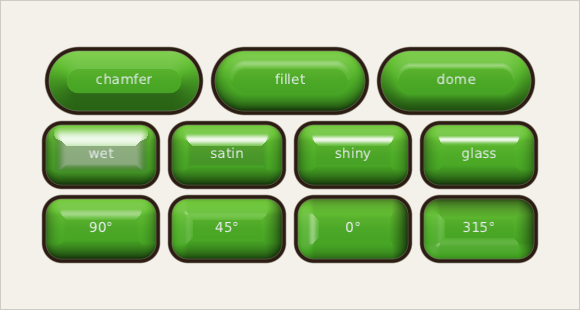
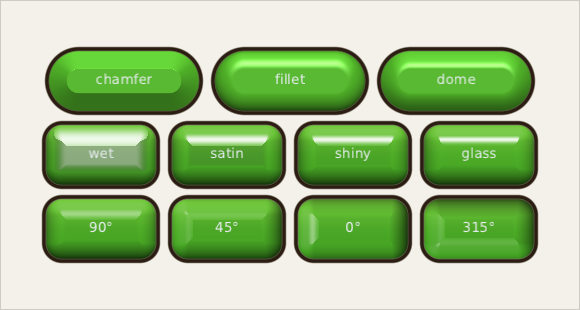
feat(ui): a lit surface can light its own colour, not just lie over one
The owner kept saying it did not look like the sheet, and measuring
one button against theirs said why: a light laid over somebody else's
fill can only add white, and white takes the colour out of a highlight.
Their bright band is the same green made brighter. Mine was green with
white on it, which is the thing that makes a drawn button look plastic.

relief now takes the face colour and lights that instead. A lit face
climbs fast and carries a little white with it, the way a bright
surface washes towards the colour of the light; a shaded one falls away
more gently and keeps its hue. Both together are what painted art does,
and a single multiply in either direction is what it does not.

Also worth writing down: the whole-sheet average was a misleading
target. It rewarded a flat mid-colour, because the bright band is a
tenth of a button's area, so tuning against it produced a button with
almost no shading at all that measured well. Fitting the profile down
three buttons instead gets the look and the number: 8.8 mean, 6 median
levels of 255 down those columns.

- ReliefGlTest: a lit face keeps its colour where a light laid over one
  loses it — same brightness, far more of the hue left.
- The sheet's buttons and the docs' shapes are drawn that way now.

diff --git a/composegl-render/src/commonMain/kotlin/dev/wildware/composegl/render/QuadBatch.kt b/composegl-render/src/commonMain/kotlin/dev/wildware/composegl/render/QuadBatch.kt
@@ -176,6 +176,9 @@ class QuadBatch(private val device: GpuDevice, private val maxQuads: Int = 2048)
      * @param gloss how bright the specular highlight is. Zero for a matte surface.
      * @param polish how tight that highlight is: low spreads it across the lit side, high draws it
      *   to a point. Rides in the fill colour's red, which a lit quad does not otherwise use.
+     * @param face the colour to light, or transparent to light whatever is underneath instead. A
+     *   colour of its own is what makes a highlight the same hue only brighter; laid over another
+     *   fill, a lit quad can only add white, which takes the colour out of the bright parts.
      */
     @Suppress("LongParameterList")
     fun relief(
@@ -196,6 +199,7 @@ class QuadBatch(private val device: GpuDevice, private val maxQuads: Int = 2048)
         lightZ: Float,
         gloss: Float,
         polish: Float,
+        face: Colour,
         aa: Float,
     ) {
         val halfWidth = width / 2f
@@ -217,7 +221,7 @@ class QuadBatch(private val device: GpuDevice, private val maxQuads: Int = 2048)
             u = white.u, v = white.v, u2 = white.u, v2 = white.v,
             // Opaque white but for the red, which carries how polished the surface is.
             fill = Colour(255, (polish.coerceIn(0f, 1f) * 255f).toInt(), 255, 255),
-            border = Colour.Transparent,
+            border = face,
             // The light, packed as a colour: a direction of minus one to one, written zero to one.
             shadow = Colour(
                 (gloss.coerceIn(0f, 1f) * 255f).toInt(),
@@ -228,7 +232,8 @@ class QuadBatch(private val device: GpuDevice, private val maxQuads: Int = 2048)
             halfWidth = halfWidth,
             halfHeight = halfHeight,
             radii = radii,
-            borderWidth = 0f,
+            // A width of one says the quad paints the face colour rather than lying over a fill.
+            borderWidth = if (face.alpha > 0) 1f else 0f,
             shadowSpread = 0f,
             aa = aa,
             gradient = kind,

diff --git a/composegl-lwjgl3/src/test/kotlin/dev/wildware/composegl/lwjgl3/ReliefGlTest.kt b/composegl-lwjgl3/src/test/kotlin/dev/wildware/composegl/lwjgl3/ReliefGlTest.kt
@@ -135,4 +135,42 @@ class ReliefGlTest {
         assertTrue(wetBand > glassyBand + 3, "the wet shine covers more rows: $wetBand against $glassyBand")
         assertTrue(glassy.max() >= wet.max() - 12, "and the glassy one is no dimmer where it does shine")
     }
+
+    @Test
+    fun `a lit face keeps its colour where a light laid over one loses it`() {
+        val green = Colour.rgb(0x3AA81E)
+        fun brightest(face: Colour?): IntArray {
+            val frame = Gl.render {
+                val canvas = GlCanvas(null)
+                try {
+                    Gl.gl.clearColor(0f, 0f, 0f, 1f)
+                    Gl.gl.clear(GL11.GL_COLOR_BUFFER_BIT)
+                    canvas.begin(viewport)
+                    if (face == null) canvas.rect(box, green, corner = 16f)
+                    canvas.relief(
+                        box, Corners.all(16f), Relief.Chamfer, depth = 22f, light = 90f,
+                        strength = 0.8f, gloss = 0f, face = face ?: Colour.Transparent,
+                    )
+                    canvas.end()
+                    Gl.readPixels(Gl.size, Gl.size)
+                } finally {
+                    canvas.close()
+                }
+            }
+            // The brightest row of the lit edge, as red, green and blue.
+            val at = (44..64).maxByOrNull { frame[it * Gl.size + 110] shr 8 and 0xFF }!!
+            val pixel = frame[at * Gl.size + 110]
+            return intArrayOf(pixel shr 16 and 0xFF, pixel shr 8 and 0xFF, pixel and 0xFF)
+        }
+
+        val over = brightest(null)
+        val lit = brightest(green)
+
+        fun saturation(rgb: IntArray) = rgb.max() - rgb.min()
+        assertTrue(lit[1] > over[1] - 10, "both reach about as bright: ${lit.toList()} against ${over.toList()}")
+        assertTrue(
+            saturation(lit) > saturation(over) + 20,
+            "the lit face keeps its green where the overlay washes it: ${lit.toList()} against ${over.toList()}",
+        )
+    }
 }

diff --git a/composegl-ui/src/commonMain/kotlin/dev/wildware/composegl/ui/modifier/Elements.kt b/composegl-ui/src/commonMain/kotlin/dev/wildware/composegl/ui/modifier/Elements.kt
@@ -274,6 +274,7 @@ data class ReliefElement(
     val strength: Float = 0.6f,
     val gloss: Float = 0.3f,
     val polish: Float = 0.5f,
+    val face: Colour? = null,
 ) : Modifier.Element {
     init {
         require(polish in 0f..1f) { "a surface is between wet and glassy, not $polish" }
@@ -1089,6 +1090,10 @@ fun Modifier.bevel(
  * @param gloss how bright the shine is where the surface faces the light squarely.
  * @param polish how tight that shine is: low spreads it across the whole lit side, which is wet
  *   plastic, and high draws it to a point, which is glass. Drawn game art is usually low.
+ * @param face the colour to light. Give it the button's colour and leave the background off: a
+ *   highlight is then that colour made brighter, which is what a painted button is. Left out, the
+ *   light lies over whatever fill is underneath and can only add white, which washes the colour
+ *   out of the bright parts.
  */
 @Suppress("LongParameterList")
 fun Modifier.relief(
@@ -1100,7 +1105,8 @@ fun Modifier.relief(
     strength: Float = 0.6f,
     gloss: Float = 0.3f,
     polish: Float = 0.5f,
-) = relief(Corners.single(corner), shape, depth, light, elevation, strength, gloss, polish)
+    face: Colour? = null,
+) = relief(Corners.single(corner), shape, depth, light, elevation, strength, gloss, polish, face)
 
 /** The same, with its own radius on each corner. */
 @Suppress("LongParameterList")
@@ -1113,7 +1119,8 @@ fun Modifier.relief(
     strength: Float = 0.6f,
     gloss: Float = 0.3f,
     polish: Float = 0.5f,
-) = then(ReliefElement(corners, shape, depth, light, elevation, strength, gloss, polish))
+    face: Colour? = null,
+) = then(ReliefElement(corners, shape, depth, light, elevation, strength, gloss, polish, face))
 
 /**
  * One light, lighting the whole box: the bevel, the shine and the shadow all agree about it.

diff --git a/composegl-render/src/commonMain/kotlin/dev/wildware/composegl/render/gl/Glsl.kt b/composegl-render/src/commonMain/kotlin/dev/wildware/composegl/render/gl/Glsl.kt
@@ -239,6 +239,24 @@ object GlslSources {
                 float shine = pow(max(dot(normal, halfway), 0.0), tightness) * v_shadowColor.w;
                 float strength = v_gradient.z;
                 float shade = (facing - light.z) * strength;
+
+                // Given a colour of its own, the light is put on that colour: a lit face is the
+                // same green made brighter, which is what a painted button is. Laid over somebody
+                // else's fill instead, all that can be added is white and black, and white takes
+                // the colour out of a highlight — the thing that makes a drawn button look washed.
+                if (v_shape.x > 0.5) {
+                    // Lighting a colour is not one multiplication. A lit face climbs fast and
+                    // carries a little white with it, the way a bright surface washes towards the
+                    // colour of the light; a shaded one falls away more gently and keeps its hue,
+                    // because nothing is washing it out. Painted art does both, and a single
+                    // multiply in either direction is what makes a drawn button look plastic.
+                    float gain = shade > 0.0 ? 1.0 + shade * 2.2 : 1.0 + shade * 0.9;
+                    vec3 face = v_borderColor.rgb * clamp(gain, 0.0, 4.0);
+                    face = mix(face, vec3(1.0), clamp(shade, 0.0, 1.0) * 0.35);
+                    gl_FragColor = vec4(clamp(face + shine, 0.0, 1.0), v_borderColor.a * coverage);
+                    return;
+                }
+
                 vec4 lift = vec4(1.0, 1.0, 1.0, clamp(shade, 0.0, 1.0));
                 vec4 dark = vec4(0.0, 0.0, 0.0, clamp(-shade, 0.0, 1.0));
                 vec4 relief = over(lift, dark);

diff --git a/composegl-demo/src/main/kotlin/dev/wildware/composegl/demo/docs/MouldedSheet.kt b/composegl-demo/src/main/kotlin/dev/wildware/composegl/demo/docs/MouldedSheet.kt
@@ -48,11 +48,11 @@ private fun Button(piece: Sheet.Piece) {
         Modifier
             .offset(piece.x + line, piece.y + line)
             .size(piece.width - line * 2f, piece.height - line * 2f)
-            .background(run, corners = Corners.all(corner))
-            // A surface with a shape, lit: the edge is a chamfer, as that page's are.
+            // A surface with a shape, lit — and the light is put on the face's own colour rather
+            // than over it, so a highlight is that green made brighter instead of whiter.
             .relief(
                 corners = Corners.all(corner),
-                shape = Relief.Chamfer,
+                shape = if (Tuning.size > 5 && Tuning[5] > 0.5f) Relief.Dome else Relief.Chamfer,
                 depth = Tuning[0],
                 // A piece taller than it is wide is lit from the left on that page, not from above.
                 light = if (piece.across) 0f else 90f,
@@ -60,6 +60,7 @@ private fun Button(piece: Sheet.Piece) {
                 strength = Tuning[2],
                 gloss = Tuning[3],
                 polish = Tuning[4],
+                face = colourAt(piece, 0.55f),
             )
             .borderOutside(Colour.rgb(piece.ink), width = line, corners = Corners.all(corner)),
     )
@@ -71,7 +72,7 @@ private fun Button(piece: Sheet.Piece) {
  *
  * The defaults are where a search against the original settled.
  */
-private val Tuning: FloatArray = (System.getenv("COMPOSEGL_MOULD") ?: "0.12,55,0.7,0.5,0.45")
+private val Tuning: FloatArray = (System.getenv("COMPOSEGL_MOULD") ?: "0.11,52,0.75,0.3,0.45,0")
     .split(',').map { it.trim().toFloat() }.toFloatArray()
 
 /** The colour a fraction of the way down the original's face. */

diff --git a/composegl-ui/src/commonMain/kotlin/dev/wildware/composegl/ui/graphics/UiCanvas.kt b/composegl-ui/src/commonMain/kotlin/dev/wildware/composegl/ui/graphics/UiCanvas.kt
@@ -200,6 +200,10 @@ interface UiCanvas {
      * @param gloss how bright the shine is where the surface faces the light squarely.
      * @param polish how tight that shine is: low spreads it across the whole lit side, which is wet
      *   plastic, and high draws it to a point, which is glass.
+     * @param face the colour to light, or [Colour.Transparent] to light whatever is underneath.
+     *   Given a colour, a highlight is that colour made brighter, which is what a painted button
+     *   is; over somebody else's fill the light can only add white, and white takes the colour out
+     *   of a highlight. Give it the face and leave the background off.
      */
     @Suppress("LongParameterList")
     fun relief(
@@ -212,6 +216,7 @@ interface UiCanvas {
         strength: Float = 0.6f,
         gloss: Float = 0.3f,
         polish: Float = 0.5f,
+        face: Colour = Colour.Transparent,
     ) {
         // Nothing, honestly: see shadesInside.
     }

diff --git a/composegl-demo/src/main/kotlin/dev/wildware/composegl/demo/docs/ReliefShots.kt b/composegl-demo/src/main/kotlin/dev/wildware/composegl/demo/docs/ReliefShots.kt
@@ -33,7 +33,7 @@ internal fun ReliefShapes() {
                         Modifier
                             .size(150f, 60f)
                             .background(face, corner = 30f)
-                            .relief(corner = 30f, shape = shape, depth = 0.3f, gloss = 0.35f)
+                            .relief(corner = 30f, shape = shape, depth = 0.3f, gloss = 0.35f, face = Colour.rgb(0x4FAF28))
                             .borderOutside(ink, width = 4f, corner = 30f),
                         contentAlignment = Alignment.Centre,
                     ) {

diff --git a/composegl-render/src/commonMain/kotlin/dev/wildware/composegl/render/RenderCanvas.kt b/composegl-render/src/commonMain/kotlin/dev/wildware/composegl/render/RenderCanvas.kt
@@ -357,6 +357,7 @@ open class RenderCanvas protected constructor(
         strength: Float,
         gloss: Float,
         polish: Float,
+        face: Colour,
     ) {
         if (state.isHidden || rect.isEmpty || depth <= 0f || strength <= 0f) return
         val box = state.map(rect)
@@ -387,6 +388,7 @@ open class RenderCanvas protected constructor(
             lightZ = sin(high),
             gloss = gloss,
             polish = polish,
+            face = face.inForce(),
             aa = antialias,
         )
     }

diff --git a/composegl-ui/src/commonMain/kotlin/dev/wildware/composegl/ui/draw/DrawPass.kt b/composegl-ui/src/commonMain/kotlin/dev/wildware/composegl/ui/draw/DrawPass.kt
@@ -723,6 +723,7 @@ class DrawPass(val canvas: UiCanvas) {
                 rect, element.corners, element.shape,
                 minOf(rect.width, rect.height) * element.depth,
                 element.light, element.elevation, element.strength, element.gloss, element.polish,
+                element.face ?: Colour.Transparent,
             )
             is BrushBackgroundElement -> canvas.box(rect, element.brush, element.corners)
             is NinePatchElement -> element.patch.drawInto(canvas, rect, element.tint)

diff --git a/docs/wiki/Modifiers.md b/docs/wiki/Modifiers.md
@@ -688,9 +688,19 @@ The corners are the part worth looking at. They are lit by how far they have act
 turned away from the light, which is what no stack of bands gets right, and it is why a
 lit box reads as a shape rather than as a box with a stripe on it.
 
-It draws the light's contribution and nothing else, so it lies over any fill: a colour, a
-gradient, a picture. One draw call, and nothing is sampled — the normal is worked out from
-the same distance field that rounds the corners.
+**Give it the face colour.** With `face`, the light is put on that colour rather than over
+it, and that is the difference between a painted button and a plastic one: a highlight is
+the same green made brighter, not green with white on top. Over somebody else's fill all
+a light can add is white, and white takes the colour out of the bright parts.
+
+```kotlin
+// The button, in one modifier. No background underneath it.
+Modifier.relief(corner = 30f, face = leaf, gloss = 0.5f, polish = 0.45f)
+```
+
+Left out, it lies over whatever fill is underneath — useful over a gradient or a picture,
+at the cost of that washing. Either way it is one draw call, and nothing is sampled: the
+normal is worked out from the same distance field that rounds the corners.
 
 **`hardness` says what kind of edge the light makes.** At `0f` the shade fades the
 whole way in: a fillet, a moulded plastic button. Near `1f` it holds its strength and
